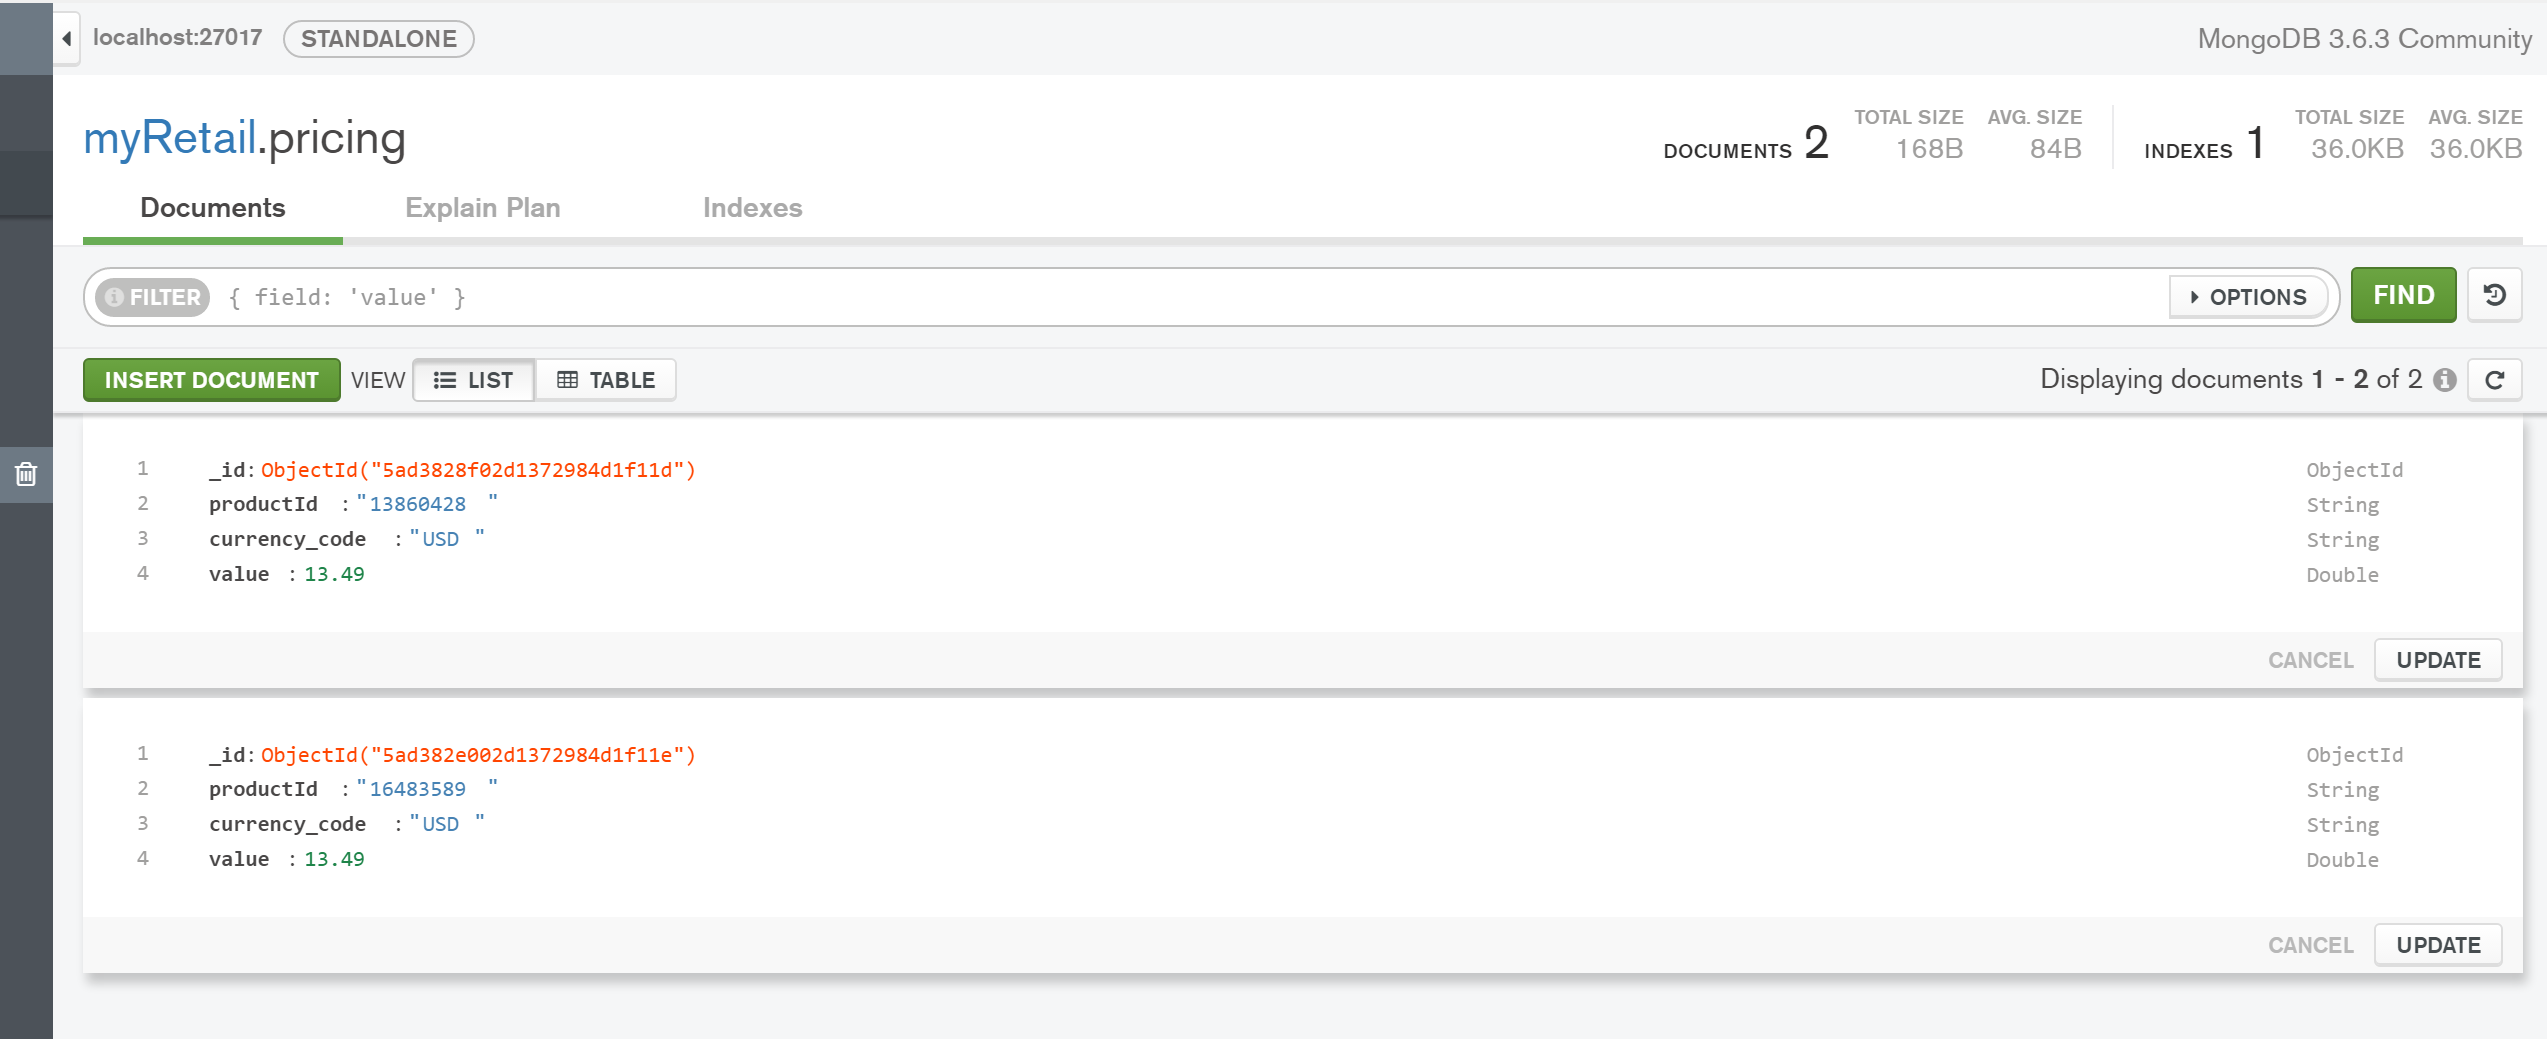
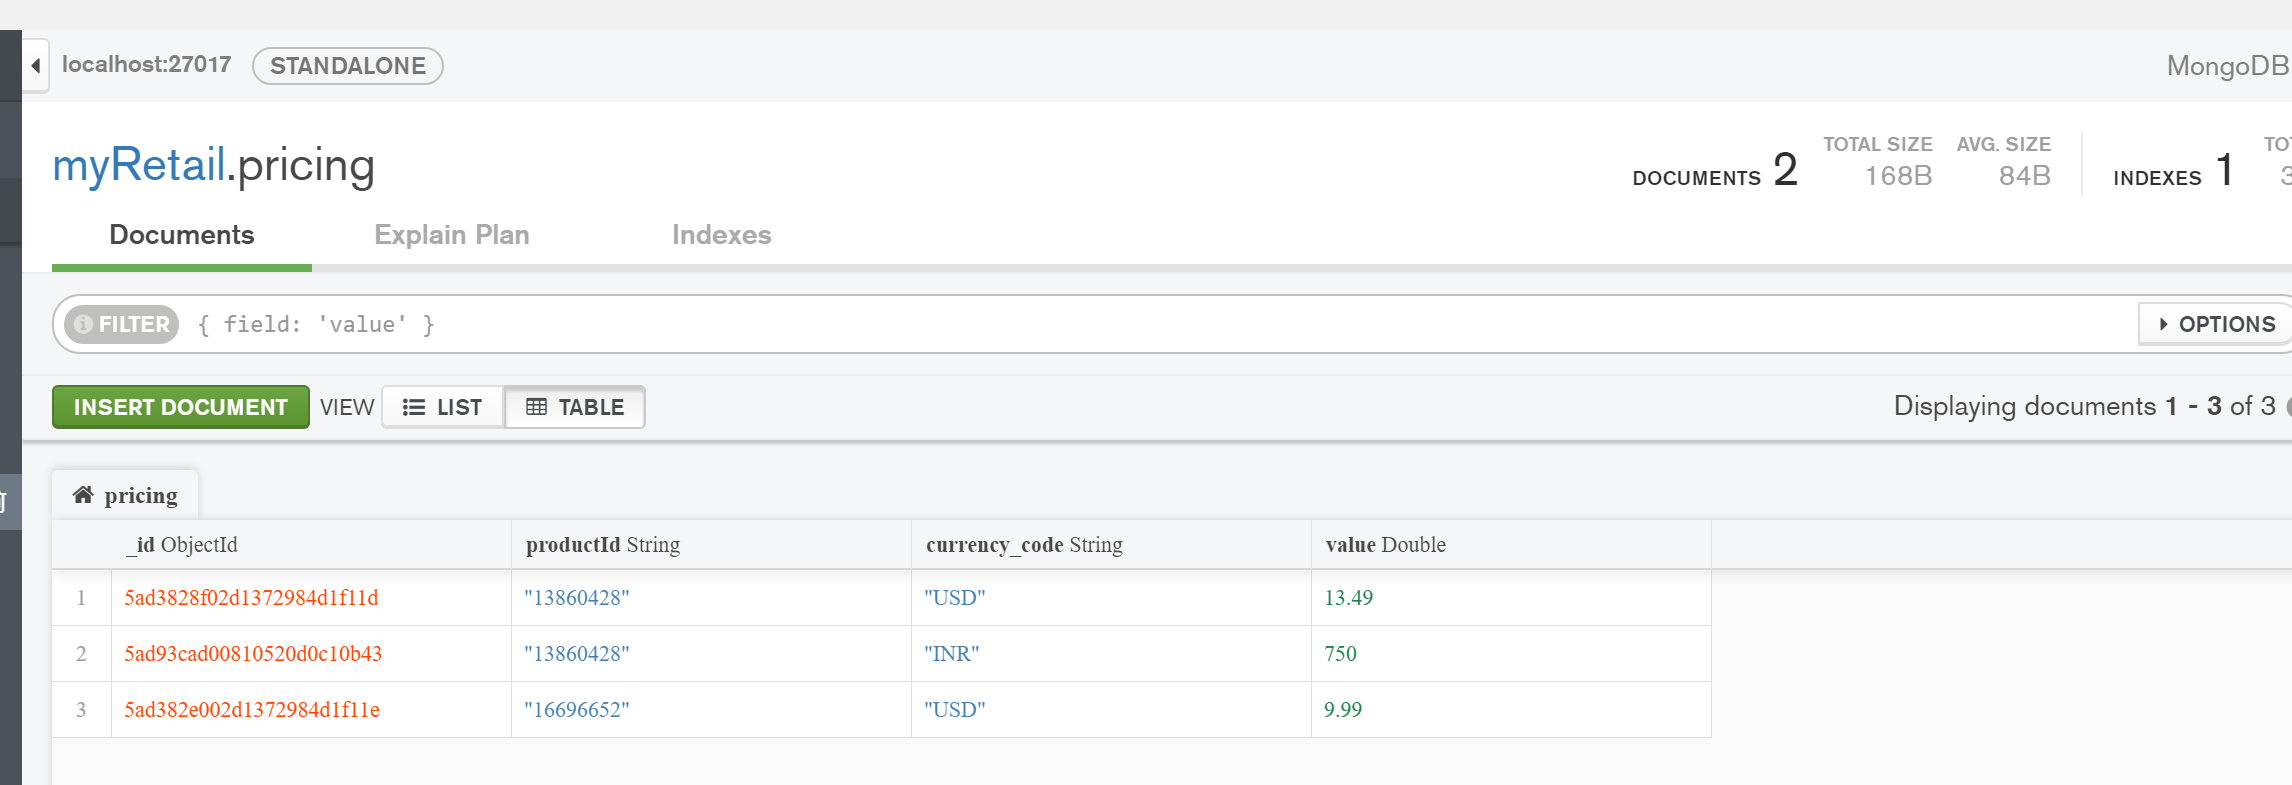
Refactor: Support multiple currencies for a product

diff --git a/src/test/java/com/myretail/target/com/myretail/target/controller/ProductsControllerTest.java b/src/test/java/com/myretail/target/com/myretail/target/controller/ProductsControllerTest.java
@@ -1,11 +1,10 @@
 package com.myretail.target.com.myretail.target.controller;
 
 import com.myretail.target.com.myretail.target.dto.Price;
-import com.myretail.target.com.myretail.target.dto.ProductDetail;
+import com.myretail.target.com.myretail.target.dto.ProductResponse;
 import com.myretail.target.com.myretail.target.exception.DefaultExceptionHandler;
 import com.myretail.target.com.myretail.target.exception.ProductInternalServerError;
 import com.myretail.target.com.myretail.target.exception.ProductNotFound;
-import com.myretail.target.com.myretail.target.service.NoSqlService;
 import com.myretail.target.com.myretail.target.service.ProductService;
 import org.junit.Before;
 import org.junit.Test;
@@ -13,6 +12,8 @@ import org.junit.runner.RunWith;
 import org.mockito.Mock;
 import org.mockito.junit.MockitoJUnitRunner;
 import org.springframework.test.web.servlet.MockMvc;
+
+import java.util.Arrays;
 
 import static org.hamcrest.Matchers.equalTo;
 import static org.mockito.ArgumentMatchers.anyString;
@@ -26,9 +27,6 @@ import static org.springframework.test.web.servlet.setup.MockMvcBuilders.standal
 public class ProductsControllerTest {
     @Mock
     private ProductService productService;
-    @Mock
-    private NoSqlService noSqlService;
-
     private ProductsController productsController;
     private DefaultExceptionHandler defaultExceptionHandler;
 
@@ -36,7 +34,7 @@ public class ProductsControllerTest {
 
     @Before
     public void setUp() {
-        productsController = new ProductsController(productService, noSqlService);
+        productsController = new ProductsController(productService);
         defaultExceptionHandler = new DefaultExceptionHandler();
         mockMvc = standaloneSetup(productsController)
                 .setControllerAdvice(defaultExceptionHandler)
@@ -47,19 +45,29 @@ public class ProductsControllerTest {
      * Verify expected response after mocking service class.
      */
     @Test
-    public void testProductDetail()  {
-//        ProductDetail productDetail = new ProductDetail();
-//        productDetail.setId("15117729");
-//        productDetail.setTitle("The Big Lebowski (Blu-ray) (Widescreen)");
-//        when(productService.getProductDetail("15117729")).thenReturn(productDetail);
-//        Price price = new Price();
-//        price.setCurrency_code("USD");
-//        price.setValue(13.49);
-//        when(noSqlService.getProductPricing("15117729")).thenReturn(price);
-//        mockMvc.perform(get("/products/15117729"))
-//                .andExpect(jsonPath("$.id", equalTo("15117729")))
-//                .andExpect(jsonPath("$.name", equalTo("The Big Lebowski (Blu-ray) (Widescreen)")))
-//                .andReturn();
+    public void testProductDetail() throws Exception {
+        ProductResponse productResponse = new ProductResponse();
+        productResponse.setId("15117729");
+        productResponse.setName("The Big Lebowski (Blu-ray) (Widescreen)");
+
+        Price priceUSD = new Price();
+        priceUSD.setCurrency_code("USD");
+        priceUSD.setValue(13.49);
+
+        Price priceINR = new Price();
+        priceINR.setCurrency_code("INR");
+        priceINR.setValue(750.49);
+        productResponse.setCurrency_price(Arrays.asList(priceUSD, priceINR));
+        when(productService.getProductDetail("15117729")).thenReturn(productResponse);
+
+        mockMvc.perform(get("/products/15117729"))
+                .andExpect(jsonPath("$.id", equalTo("15117729")))
+                .andExpect(jsonPath("$.name", equalTo("The Big Lebowski (Blu-ray) (Widescreen)")))
+                .andExpect((jsonPath("$.currency_price[0].currency_code", equalTo("USD"))))
+                .andExpect((jsonPath("$.currency_price[0].value", equalTo(13.49))))
+                .andExpect((jsonPath("$.currency_price[1].currency_code", equalTo("INR"))))
+                .andExpect((jsonPath("$.currency_price[1].value", equalTo(750.49))))
+                .andReturn();
     }
 
     /**

diff --git a/src/main/java/com/myretail/target/com/myretail/target/service/impl/ProductServiceImpl.java b/src/main/java/com/myretail/target/com/myretail/target/service/impl/ProductServiceImpl.java
@@ -4,8 +4,6 @@
 package com.myretail.target.com.myretail.target.service.impl;
 
 import com.jayway.jsonpath.JsonPath;
-import com.myretail.target.com.myretail.target.dto.Price;
-import com.myretail.target.com.myretail.target.dto.ProductDetail;
 import com.myretail.target.com.myretail.target.dto.ProductResponse;
 import com.myretail.target.com.myretail.target.exception.ProductInternalServerError;
 import com.myretail.target.com.myretail.target.exception.ProductNotFound;
@@ -25,7 +23,10 @@ import org.springframework.scheduling.annotation.Async;
 import org.springframework.stereotype.Service;
 
 import java.io.IOException;
-import java.util.concurrent.*;
+import java.util.concurrent.ExecutionException;
+import java.util.concurrent.ExecutorService;
+import java.util.concurrent.Executors;
+import java.util.concurrent.Future;
 
 /**
  * The Product service that holds the logic for data handling with controller and repository.
@@ -36,7 +37,7 @@ public class ProductServiceImpl implements ProductService {
     @Autowired
     private NoSqlService noSqlService;
 
-    private final ExecutorService pool = Executors.newFixedThreadPool(10);
+    private final ExecutorService executorService = Executors.newSingleThreadExecutor();
 
     @Bean
     private HttpClient httpClient(){
@@ -58,8 +59,7 @@ public class ProductServiceImpl implements ProductService {
         try {
             Future<HttpResponse> responseFuture = populateProductDetail(url);
             //get details from no sql.
-            Price price = noSqlService.getProductPricing(productId);
-            productResponse.setCurrency_price(price);
+            productResponse.setCurrency_price(noSqlService.getProductPricing(productId));
             //now get the response from rest end point.
             HttpResponse response = responseFuture.get();
             String responseEntity  = EntityUtils.toString(response.getEntity());
@@ -78,8 +78,8 @@ public class ProductServiceImpl implements ProductService {
 
     @Async
     private Future<HttpResponse> populateProductDetail(String url) {
-        return pool.submit(() -> {
-            LOGGER.debug("get url: {}", url);
+        LOGGER.debug("get url: {}", url);
+        return executorService.submit(() -> {
             HttpGet get = new HttpGet(url);
             return httpClient().execute(get);
         });

diff --git a/src/main/java/com/myretail/target/com/myretail/target/service/impl/NoSqlServiceImpl.java b/src/main/java/com/myretail/target/com/myretail/target/service/impl/NoSqlServiceImpl.java
@@ -16,6 +16,8 @@ import org.slf4j.LoggerFactory;
 import org.springframework.stereotype.Service;
 
 import java.io.IOException;
+import java.util.ArrayList;
+import java.util.List;
 
 import static com.mongodb.client.model.Filters.eq;
 
@@ -25,23 +27,26 @@ import static com.mongodb.client.model.Filters.eq;
 @Service
 public class NoSqlServiceImpl implements NoSqlService {
     private static final Logger LOGGER = LoggerFactory.getLogger(NoSqlServiceImpl.class);
+    private ObjectMapper mapper = new ObjectMapper();
 
-    public Price getProductPricing(String productId) {
+    public List<Price> getProductPricing(String productId) {
+        LOGGER.info("product id {}", productId);
+        List<Price> prices = new ArrayList<>();
         MongoClient mongoClient = new MongoClient("localhost", 27017);
         MongoDatabase database = mongoClient.getDatabase("myRetail");
-        FindIterable document =  database.getCollection("pricing").find(eq("productId",productId));
-        Document pricing = (Document) document.first();
-        ObjectMapper mapper = new ObjectMapper();
-        Price price = new Price();
-        if(pricing!= null) {
+        FindIterable<Document> document = database.getCollection("pricing").find(eq("productId",
+                productId));
+        Price price;
+        for (Document product : document) {
             try {
-                price = mapper.readValue(pricing.toJson(), Price.class);
+                price = mapper.readValue(product.toJson(), Price.class);
             } catch (IOException e) {
-                throw new ProductInternalServerError("no sql server error while getting pricing information "
-                        + productId);
+                throw new ProductInternalServerError("no sql server error while getting pricing " +
+                        "information " + productId);
             }
+            prices.add(price);
         }
-        LOGGER.debug("product id {}",pricing);
-        return price;
+        LOGGER.debug("Total prices found: {}", prices.size());
+        return prices;
     }
 }

diff --git a/src/main/java/com/myretail/target/com/myretail/target/controller/ProductsController.java b/src/main/java/com/myretail/target/com/myretail/target/controller/ProductsController.java
@@ -3,9 +3,7 @@
  */
 package com.myretail.target.com.myretail.target.controller;
 
-import com.myretail.target.com.myretail.target.dto.Price;
 import com.myretail.target.com.myretail.target.dto.ProductResponse;
-import com.myretail.target.com.myretail.target.service.NoSqlService;
 import com.myretail.target.com.myretail.target.service.ProductService;
 import org.slf4j.Logger;
 import org.slf4j.LoggerFactory;
@@ -21,17 +19,14 @@ import org.springframework.web.bind.annotation.*;
 public class ProductsController {
     private static final Logger LOGGER = LoggerFactory.getLogger(ProductsController.class);
     private final ProductService productService;
-    private NoSqlService noSqlService;
 
     /**
      * Constructor that initializes parameters.
      * @param productService instance of product service
-     * @param noSqlService instance of no sql service
      */
     @Autowired
-    ProductsController(ProductService productService, NoSqlService noSqlService) {
+    ProductsController(ProductService productService) {
         this.productService = productService;
-        this.noSqlService = noSqlService;
     }
 
     /**

diff --git a/src/main/java/com/myretail/target/com/myretail/target/service/NoSqlService.java b/src/main/java/com/myretail/target/com/myretail/target/service/NoSqlService.java
@@ -2,9 +2,11 @@ package com.myretail.target.com.myretail.target.service;
 
 import com.myretail.target.com.myretail.target.dto.Price;
 
+import java.util.List;
+
 /**
  * Interface for no sql database interactions.
  */
 public interface NoSqlService {
-    Price getProductPricing(String productId);
+    List<Price> getProductPricing(String productId);
 }

diff --git a/src/main/java/com/myretail/target/com/myretail/target/dto/ProductResponse.java b/src/main/java/com/myretail/target/com/myretail/target/dto/ProductResponse.java
@@ -22,6 +22,5 @@ import java.util.List;
 public class ProductResponse {
     private String id;
     private String name;
-    //change it to List<Price> to hold multiple currency price.
-    private Price currency_price;
+    private List<Price> currency_price;
 }

diff --git a/src/main/java/com/myretail/target/com/myretail/target/service/ProductService.java b/src/main/java/com/myretail/target/com/myretail/target/service/ProductService.java
@@ -1,6 +1,5 @@
 package com.myretail.target.com.myretail.target.service;
 
-import com.myretail.target.com.myretail.target.dto.ProductDetail;
 import com.myretail.target.com.myretail.target.dto.ProductResponse;
 
 /**

diff --git a/README.md b/README.md
@@ -41,6 +41,11 @@ Example response for 200 OK http response status
  ---------------------------------
  ![Alt text](/Postman-200-OK.png?raw=true "GET information sucess")
 
+
+Example response for 200 OK http response status (Multiple currency)
+ ---------------------------------
+ ![Alt text](/Postman-200-OK-multipleCurrency.PNG?raw=true "GET information sucess")
+
 Example response for 404 OK http response status
   ---------------------------------
   ![Alt text](/Postman-404-NotFound.png?raw=true "GET information not found")
